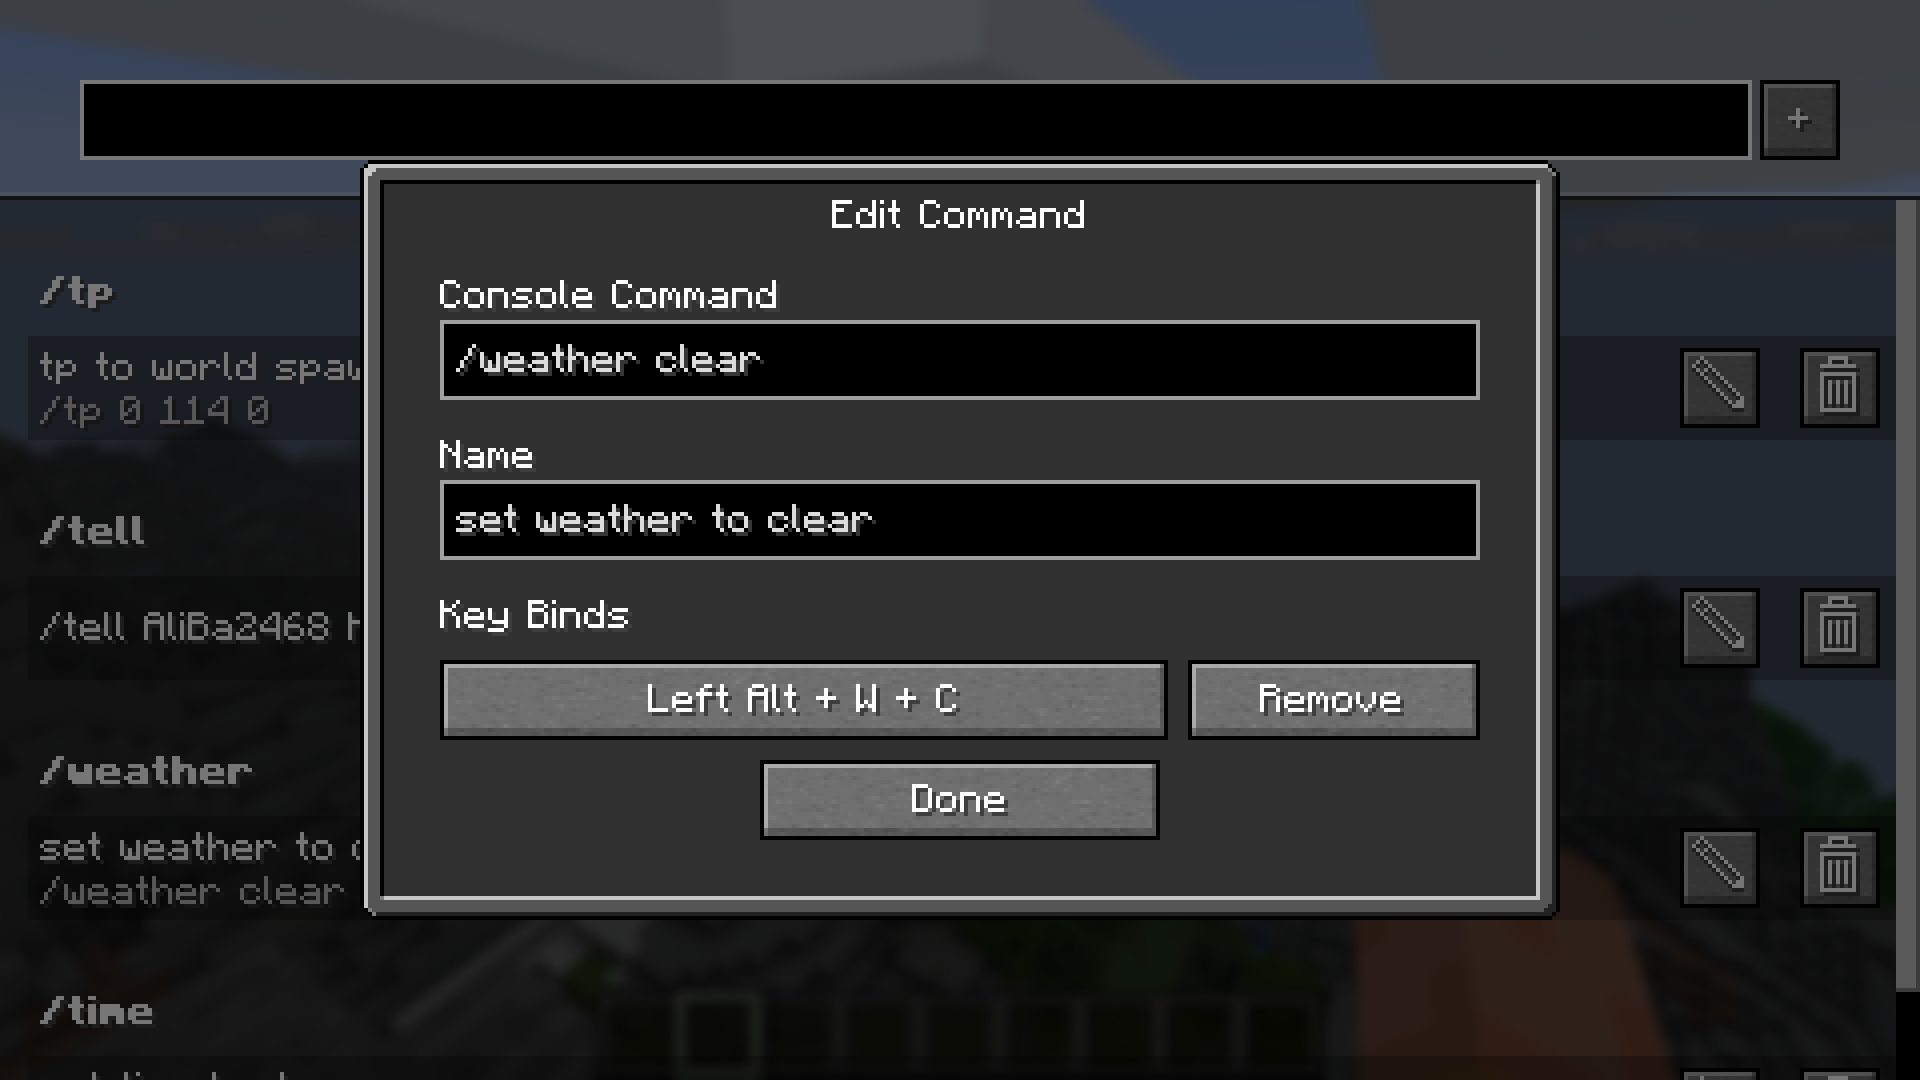
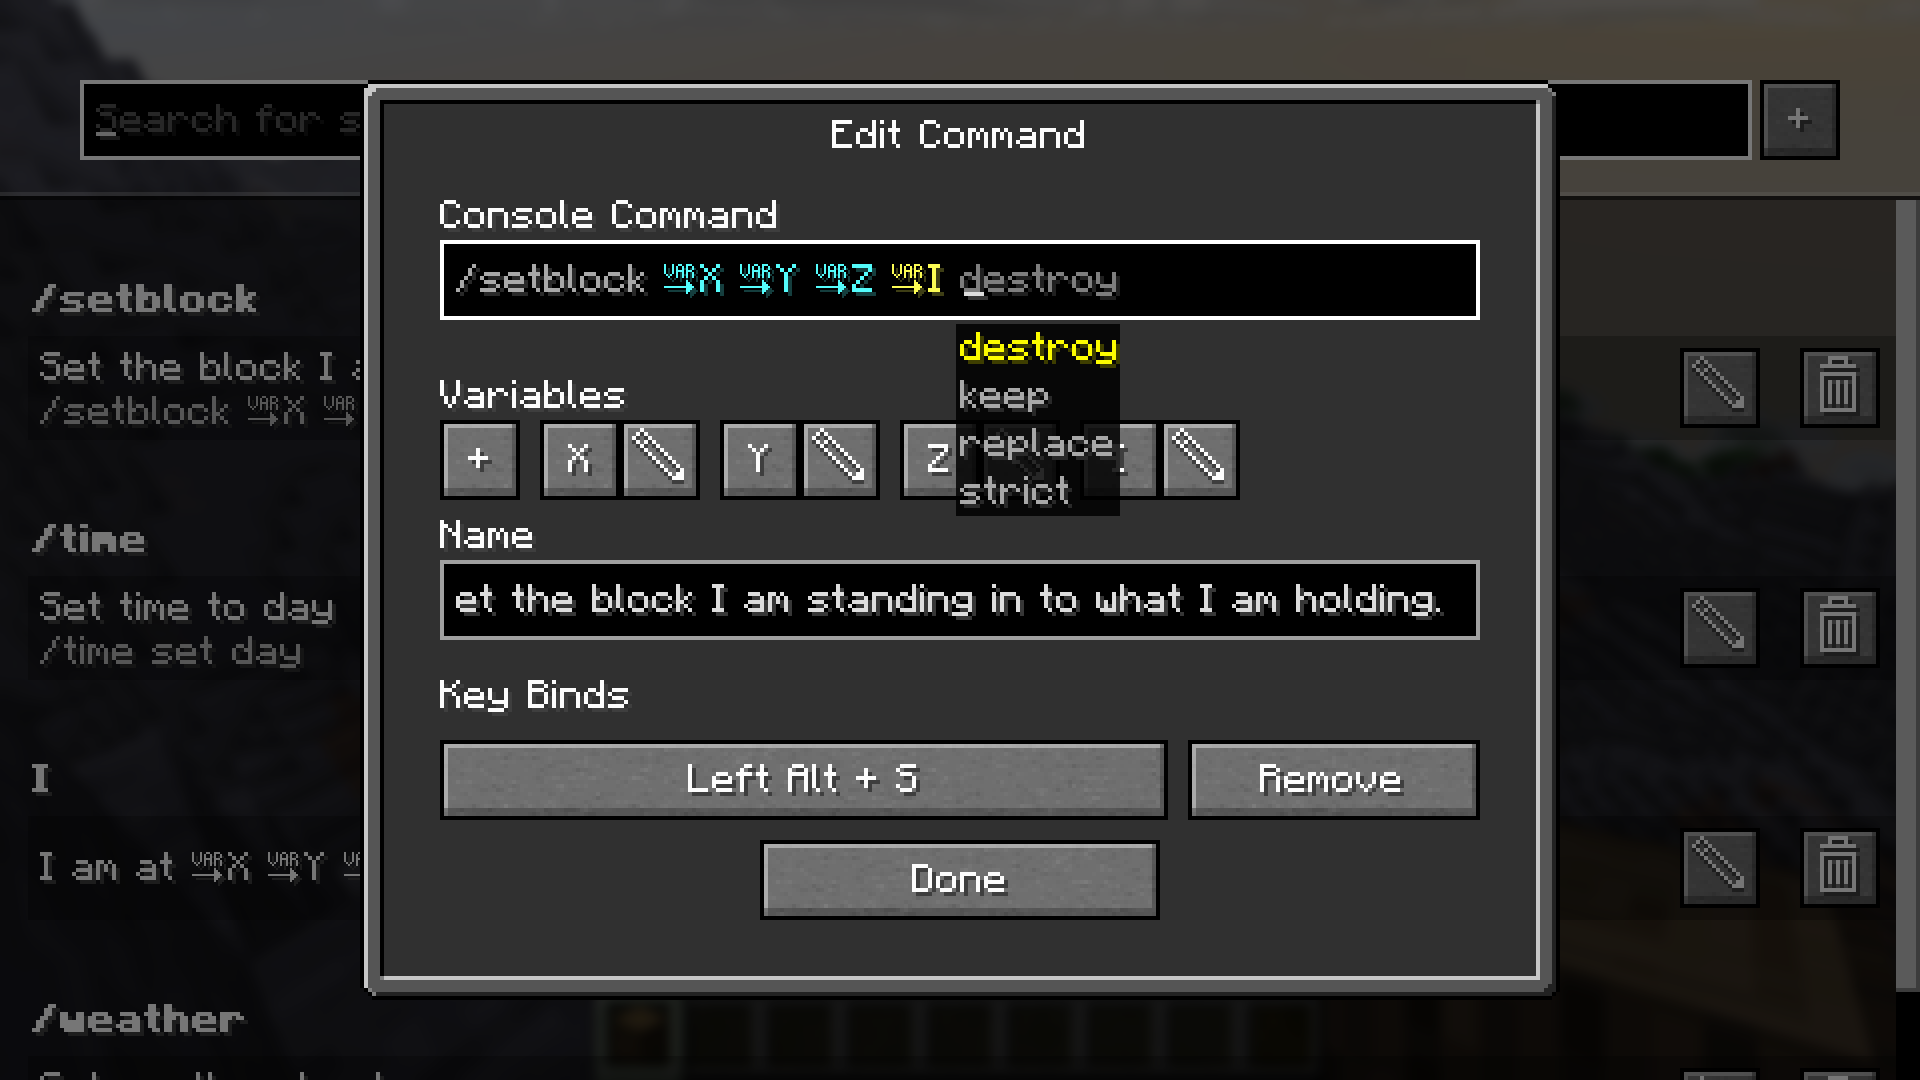
Fixed a bug that lead to not being able to save the variable, fixed the default value text field to have the right limitations when editing, modified the README, remade the screenshots and put in the right version. Ported all changes to 1.21.9-10.

diff --git a/src/client/java/de/aliba2468pr77pr77/savedcommands/EditVariableScreen.java b/src/client/java/de/aliba2468pr77pr77/savedcommands/EditVariableScreen.java
@@ -13,7 +13,7 @@ import net.minecraft.client.network.ClientPlayerEntity;
 import net.minecraft.registry.Registries;
 import net.minecraft.text.Text;
 import net.minecraft.util.Identifier;
-import org.jspecify.annotations.Nullable;
+import org.jetbrains.annotations.Nullable;
 
 import java.util.ArrayList;
 
@@ -103,7 +103,7 @@ public class EditVariableScreen extends Screen {
             closeButton.setMessage(input.isEmpty() || abbreviationTextField.getText().isEmpty() || abbreviationExists ? translatable("gui.cancel") : translatable("gui.done"));
         });
         this.abbreviationTextField.setChangedListener((String input) -> {
-            if (!input.isEmpty() && commandData != null && commandData.variables != null && commandData.variables.stream().anyMatch(data -> data.abbreviation.equals(input.charAt(0)))) {
+            if (!input.isEmpty() && commandData != null && commandData.variables != null && commandData.variables.stream().anyMatch(data -> data.abbreviation.equals(input.charAt(0)) && !data.equals(this.data))) {
                 abbreviationExists = true;
                 closeButton.setMessage(translatable("gui.cancel"));
                 return;
@@ -118,72 +118,13 @@ public class EditVariableScreen extends Screen {
         });
 
         typeButton =
-                CyclingButtonWidget.builder(SavedCommandManager.CommandData.variable.types::getText, (data != null && data.type != null) ? data.type : SavedCommandManager.CommandData.variable.types.STRING)
+                CyclingButtonWidget.builder(SavedCommandManager.CommandData.variable.types::getText)
                         .values(SavedCommandManager.CommandData.variable.types.values())
+                        .initially((data != null && data.type != null) ? data.type : SavedCommandManager.CommandData.variable.types.STRING)
                         .build(popupX + 20, popupY + 90, popupW - 40, 20, Text.translatable("screen.savedcommands.vartype"),
                                 (btn, value) -> {
                                     LOGGER.info("Chosen variable: " + value);
-                                    MinecraftClient client = MinecraftClient.getInstance();
-                                    ClientPlayerEntity player = client.player;
-                                    switch (value) {
-                                        case STRING:
-                                            this.defaultValueTextField.setTextPredicate(text -> true);
-                                            this.defaultValueTextField.setEditable(true);
-                                            break;
-                                        case INT:
-                                            this.defaultValueTextField.setTextPredicate(text -> text.matches("-?\\d*"));
-                                            this.defaultValueTextField.setEditable(true);
-                                            this.defaultValueTextField.setText(this.defaultValueTextField.getText()
-                                                    .replaceAll("[^0-9-]", "")
-                                                    .replaceAll("(?<!^)-", "")); // Removing unwanted characters
-                                            break;
-                                        case FLOAT:
-                                            this.defaultValueTextField.setTextPredicate(text ->
-                                                    text.matches("-?(\\d+\\.\\d*|\\d*\\.\\d+|\\d+)?")
-                                            );
-                                            this.defaultValueTextField.setEditable(true);
-                                            this.defaultValueTextField.setText(this.defaultValueTextField.getText()
-                                                    .replaceAll("[^0-9.-]", "")
-                                                    .replaceAll("(?<!^)-", "")
-                                                    .replaceAll("(\\..*)\\.", "$1")); // Removing unwanted characters
-                                            break;
-                                        case ITEMHAND:
-                                            this.defaultValueTextField.setTextPredicate(text -> true);
-                                            this.defaultValueTextField.setEditable(false);
-                                            if (player != null) {
-                                                this.defaultValueTextField.setText(String.valueOf(Registries.ITEM.getId(player.getMainHandStack().getItem())));
-                                            } else {
-                                                this.defaultValueTextField.setText("");
-                                            }
-                                            break;
-                                        case PLAYERPOSX:
-                                            this.defaultValueTextField.setTextPredicate(text -> true);
-                                            if (player != null) {
-                                                this.defaultValueTextField.setText(String.valueOf(player.getBlockX()));
-                                            } else {
-                                                this.defaultValueTextField.setText("");
-                                            }
-                                            this.defaultValueTextField.setEditable(false);
-                                            break;
-                                        case PLAYERPOSY:
-                                            this.defaultValueTextField.setTextPredicate(text -> true);
-                                            if (player != null) {
-                                                this.defaultValueTextField.setText(String.valueOf(player.getBlockY()));
-                                            } else {
-                                                this.defaultValueTextField.setText("");
-                                            }
-                                            this.defaultValueTextField.setEditable(false);
-                                            break;
-                                        case PLAYERPOSZ:
-                                            this.defaultValueTextField.setTextPredicate(text -> true);
-                                            if (player != null) {
-                                                this.defaultValueTextField.setText(String.valueOf(player.getBlockZ()));
-                                            } else {
-                                                this.defaultValueTextField.setText("");
-                                            }
-                                            this.defaultValueTextField.setEditable(false);
-                                            break;
-                                    }
+                                    setDefaultValueLimitations(value);
 
                                     if (nameTextField.getText().isEmpty() ||
                                             SavedCommandManager.CommandData.variable.types.byTranslation(nameTextField.getText()).isPresent()) {
@@ -200,12 +141,77 @@ public class EditVariableScreen extends Screen {
         this.defaultValueTextField.setMaxLength(256);
         this.defaultValueTextField.setDrawsBackground(true);
         this.defaultValueTextField.setFocusUnlocked(true);
-        if (data != null && data.name != null) {
+        if (data != null && data.defaultValue != null) {
             this.defaultValueTextField.setText(data.defaultValue);
+            setDefaultValueLimitations(typeButton.getValue());
         }
         this.addDrawableChild(this.defaultValueTextField);
 
         closeButton.setMessage(nameTextField.getText().isEmpty() || abbreviationTextField.getText().isEmpty() ? translatable("gui.cancel") : translatable("gui.done"));
+    }
+
+    void setDefaultValueLimitations(SavedCommandManager.CommandData.variable.types value) {
+        MinecraftClient client = MinecraftClient.getInstance();
+        ClientPlayerEntity player = client.player;
+        switch (value) {
+            case STRING:
+                this.defaultValueTextField.setTextPredicate(text -> true);
+                this.defaultValueTextField.setEditable(true);
+                break;
+            case INT:
+                this.defaultValueTextField.setTextPredicate(text -> text.matches("-?\\d*"));
+                this.defaultValueTextField.setEditable(true);
+                this.defaultValueTextField.setText(this.defaultValueTextField.getText()
+                        .replaceAll("[^0-9-]", "")
+                        .replaceAll("(?<!^)-", "")); // Removing unwanted characters
+                break;
+            case FLOAT:
+                this.defaultValueTextField.setTextPredicate(text ->
+                        text.matches("-?(\\d+\\.\\d*|\\d*\\.\\d+|\\d+)?")
+                );
+                this.defaultValueTextField.setEditable(true);
+                this.defaultValueTextField.setText(this.defaultValueTextField.getText()
+                        .replaceAll("[^0-9.-]", "")
+                        .replaceAll("(?<!^)-", "")
+                        .replaceAll("(\\..*)\\.", "$1")); // Removing unwanted characters
+                break;
+            case ITEMHAND:
+                this.defaultValueTextField.setTextPredicate(text -> true);
+                this.defaultValueTextField.setEditable(false);
+                if (player != null) {
+                    this.defaultValueTextField.setText(String.valueOf(Registries.ITEM.getId(player.getMainHandStack().getItem())));
+                } else {
+                    this.defaultValueTextField.setText("");
+                }
+                break;
+            case PLAYERPOSX:
+                this.defaultValueTextField.setTextPredicate(text -> true);
+                if (player != null) {
+                    this.defaultValueTextField.setText(String.valueOf(player.getBlockX()));
+                } else {
+                    this.defaultValueTextField.setText("");
+                }
+                this.defaultValueTextField.setEditable(false);
+                break;
+            case PLAYERPOSY:
+                this.defaultValueTextField.setTextPredicate(text -> true);
+                if (player != null) {
+                    this.defaultValueTextField.setText(String.valueOf(player.getBlockY()));
+                } else {
+                    this.defaultValueTextField.setText("");
+                }
+                this.defaultValueTextField.setEditable(false);
+                break;
+            case PLAYERPOSZ:
+                this.defaultValueTextField.setTextPredicate(text -> true);
+                if (player != null) {
+                    this.defaultValueTextField.setText(String.valueOf(player.getBlockZ()));
+                } else {
+                    this.defaultValueTextField.setText("");
+                }
+                this.defaultValueTextField.setEditable(false);
+                break;
+        }
     }
 
     @Override
@@ -298,7 +304,7 @@ public class EditVariableScreen extends Screen {
 
     private void exit(boolean save) {
         if (!nameTextField.getText().isEmpty() && !abbreviationTextField.getText().isEmpty() && save &&
-                commandData != null && (commandData.variables == null || commandData.variables.stream().noneMatch(data -> data.abbreviation.equals(abbreviationTextField.getText().charAt(0))))) {
+                commandData != null && (commandData.variables == null || commandData.variables.stream().noneMatch(data -> data.abbreviation.equals(abbreviationTextField.getText().charAt(0)) && !data.equals(this.data)))) {
             if (data == null) {
                 if (commandData.variables == null) {
                     commandData.variables = new ArrayList<>();

diff --git a/src/client/java/de/aliba2468pr77pr77/savedcommands/mixin/client/SearchSuggestor.java b/src/client/java/de/aliba2468pr77pr77/savedcommands/mixin/client/SearchSuggestor.java
@@ -149,7 +149,8 @@ public class SearchSuggestor {
             method = "highlight",
             at = @At(
                     value = "INVOKE",
-                    target = "Lcom/mojang/brigadier/context/StringRange;getEnd()I"
+                    target = "Lcom/mojang/brigadier/context/StringRange;getEnd()I",
+                    remap = false
             )
     )
     private static int savedcommands$replaceGetEnd(StringRange instance) {
@@ -164,7 +165,8 @@ public class SearchSuggestor {
             method = "highlight",
             at = @At(
                     value = "INVOKE",
-                    target = "Lcom/mojang/brigadier/context/StringRange;getStart()I"
+                    target = "Lcom/mojang/brigadier/context/StringRange;getStart()I",
+                    remap = false
             )
     )
     private static int savedcommands$replaceGetStart(StringRange instance) {
@@ -179,7 +181,8 @@ public class SearchSuggestor {
             method = "highlight",
             at = @At(
                     value = "INVOKE",
-                    target = "Lcom/mojang/brigadier/ImmutableStringReader;getCursor()I"
+                    target = "Lcom/mojang/brigadier/ImmutableStringReader;getCursor()I",
+                    remap = false
             )
     )
     private static int savedcommands$replaceStringReaderGetCursor(ImmutableStringReader instance) {
@@ -194,7 +197,8 @@ public class SearchSuggestor {
             method = "highlight",
             at = @At(
                     value = "INVOKE",
-                    target = "Lcom/mojang/brigadier/ImmutableStringReader;getRemainingLength()I"
+                    target = "Lcom/mojang/brigadier/ImmutableStringReader;getRemainingLength()I",
+                    remap = false
             )
     )
     private static int savedcommands$replaceStringReaderGetRemainingLength(ImmutableStringReader instance) {

diff --git a/src/client/java/de/aliba2468pr77pr77/savedcommands/mixin/client/SearchSuggestionWindow.java b/src/client/java/de/aliba2468pr77pr77/savedcommands/mixin/client/SearchSuggestionWindow.java
@@ -4,12 +4,13 @@ import com.mojang.brigadier.context.StringRange;
 import com.mojang.brigadier.suggestion.Suggestion;
 import de.aliba2468pr77pr77.savedcommands.EditCommandScreen;
 import net.minecraft.client.MinecraftClient;
+import net.minecraft.client.gui.screen.ChatInputSuggestor;
 import net.minecraft.client.gui.widget.TextFieldWidget;
 import org.spongepowered.asm.mixin.Mixin;
 import org.spongepowered.asm.mixin.injection.At;
 import org.spongepowered.asm.mixin.injection.Redirect;
 
-@Mixin(targets = "net.minecraft.client.gui.screen.ChatInputSuggestor$SuggestionWindow")
+@Mixin(ChatInputSuggestor.SuggestionWindow.class)
 public abstract class SearchSuggestionWindow {
     @Redirect(
             method = {
@@ -69,7 +70,8 @@ public abstract class SearchSuggestionWindow {
             },
             at = @At(
                     value = "INVOKE",
-                    target = "Lcom/mojang/brigadier/suggestion/Suggestion;apply(Ljava/lang/String;)Ljava/lang/String;"
+                    target = "Lcom/mojang/brigadier/suggestion/Suggestion;apply(Ljava/lang/String;)Ljava/lang/String;",
+                    remap = false
             )
     )
     private String savedcommands$replaceApplySuggestion(Suggestion instance, String input) {

diff --git a/src/client/java/de/aliba2468pr77pr77/savedcommands/InputVariableScreen.java b/src/client/java/de/aliba2468pr77pr77/savedcommands/InputVariableScreen.java
@@ -10,8 +10,7 @@ import net.minecraft.client.gui.widget.TextFieldWidget;
 import net.minecraft.client.input.KeyInput;
 import net.minecraft.util.Formatting;
 import net.minecraft.util.Identifier;
-import org.jspecify.annotations.NonNull;
-import org.jspecify.annotations.Nullable;
+import org.jetbrains.annotations.Nullable;
 
 import java.util.ArrayList;
 import java.util.List;
@@ -179,7 +178,7 @@ public class InputVariableScreen extends Screen {
         }
     }
 
-    private @NonNull StringBuilder insertVariableValue(int variableIndex, String variableValue, StringBuilder insertedCommand) {
+    private StringBuilder insertVariableValue(int variableIndex, String variableValue, StringBuilder insertedCommand) {
         int index = insertedCommand.indexOf(String.valueOf(
                 new char[]{VariablePlaceholder, userEditableVariablesLeft.get(variableIndex).abbreviation}));
         int ContinuingIndex = 0;

diff --git a/src/client/java/de/aliba2468pr77pr77/savedcommands/EditCommandScreen.java b/src/client/java/de/aliba2468pr77pr77/savedcommands/EditCommandScreen.java
@@ -20,7 +20,7 @@ import net.minecraft.registry.Registries;
 import net.minecraft.text.MutableText;
 import net.minecraft.text.Text;
 import net.minecraft.util.Identifier;
-import org.jspecify.annotations.Nullable;
+import org.jetbrains.annotations.Nullable;
 
 import static de.aliba2468pr77pr77.savedcommands.SavedCommands.LOGGER;
 
@@ -354,8 +354,6 @@ public class EditCommandScreen extends Screen {
                         if (insertedIndex != null && insertedIndexVariable <= insertedIndex && insertedCommand.length() > insertedIndex) {
                             newIndex = index;
                         }
-                        // Hallo -X Bla -Y ÖÖÖ -Z LLLL
-                        // Hallo 123456 Bla 123456 ÖÖÖ 78901 LLLL
 
                         ContinuingIndex = index + 2;
                     }

diff --git a/src/client/java/de/aliba2468pr77pr77/savedcommands/SavedCommandsScreen.java b/src/client/java/de/aliba2468pr77pr77/savedcommands/SavedCommandsScreen.java
@@ -15,7 +15,7 @@ import net.minecraft.sound.SoundEvents;
 import net.minecraft.text.Text;
 import net.minecraft.util.Formatting;
 import net.minecraft.util.Identifier;
-import org.jspecify.annotations.Nullable;
+import org.jetbrains.annotations.Nullable;
 
 import java.util.ArrayList;
 import java.util.Collections;
@@ -134,7 +134,7 @@ public class SavedCommandsScreen extends Screen {
         }
     }
 
-    public void resize(int width, int height) {
+    public void resize(MinecraftClient client, int width, int height) {
         if (CommandSuggestor != null) {
             CommandSuggestor.refresh();
         }

diff --git a/src/client/java/de/aliba2468pr77pr77/savedcommands/TextFieldPlaceholderAlways.java b/src/client/java/de/aliba2468pr77pr77/savedcommands/TextFieldPlaceholderAlways.java
@@ -10,7 +10,7 @@ import net.minecraft.text.Style;
 import net.minecraft.text.Text;
 import net.minecraft.util.Identifier;
 import net.minecraft.util.Util;
-import org.jspecify.annotations.Nullable;
+import org.jetbrains.annotations.Nullable;
 
 public class TextFieldPlaceholderAlways extends TextFieldWidget {
     private @Nullable Text placeholder;

diff --git a/README.md b/README.md
@@ -13,7 +13,7 @@ You can download the mod on either [Modrinth](https://modrinth.com/mod/savedcomm
 under [releases](https://github.com/Pr77Pr77/savedcommands/releases).
 This mod needs the following dependency:
 
-[Fabric API](https://modrinth.com/mod/fabric-api): Version 0.133.14+1.21.9 or newer (for 1.21.9/1.21.10)
+[Fabric API](https://modrinth.com/mod/fabric-api) (Please pick an appropriate version for your Minecraft version)
 
 ## Using the mod
 
@@ -22,12 +22,20 @@ To use the mod, open the Saved Commands screen by pressing the keybind
 
 On the Saved Commands screen, you can:
 
-* Add a new command to your saved ones by typing it into the top bar and pressing the "+"-button
+* Add a new command by clicking the "+"-button
 * Edit saved commands by clicking on the pen icon on the right. In the appearing popup, you can edit the command,
-add or edit a name and add or edit the keybind combination (shortcut).
+insert variables, add or edit a name and add or edit the keybind combination (shortcut).
 * Delete saved commands by clicking on the trash can icon on the right.
 * Send and run commands by clicking on them
 * Search for commands by entering the query into the top bar.
+
+Variables can be used to insert player data, like the position and item id of the held item.
+You can also select a data type like string, integer and float, for you to input before sending.
+If you don't know these types, use string because it is the least "strict" one.
+
+> We accept no liability for any damages caused by using this mod. Use at your own risk!
+
+## Screenshots
 
 ![Saved Commands screen](resources/saved-commands-screen-screenshot.png)
 *The Saved Commands screen with some example commands*
@@ -38,7 +46,11 @@ add or edit a name and add or edit the keybind combination (shortcut).
 ![Edit command screen](resources/edit-command-screen-screenshot.png)
 *In the edit command screen you can edit the name, command and keybind combination*
 
-> We accept no liability for any damages caused by using this mod. Use at your own risk!
+![Edit variable screen](resources/edit-variable-screen-screenshot.png)
+*In the edit variable screen you can edit the name, abbreviation, variable type and defult value*
+
+![Input variable screen](resources/input-variable-screen-screenshot.png)
+*Before sending a command or text containing a custom variable, you are prompted to input the values*
 
 ## Working principles
 
